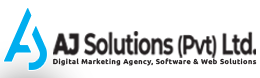
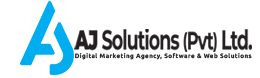
Add files via upload

diff --git a/index.html b/index.html
@@ -71,7 +71,7 @@
             <div class="container-fluid">
                <div class="row">
                   <div class="pogoSlider" id="js-main-slider">
-                     <div class="pogoSlider-slide" style="background-image:url(images/slider_1.jpg);">
+                     <div class="pogoSlider-slide" style="background-image:url(images/slider_dig.jpg);">
                         <div class="container">
                            <div class="row">
                               <div class="col-md-12">
@@ -86,7 +86,7 @@
                            </div>
                         </div>
                      </div>
-                     <div class="pogoSlider-slide" style="background-image:url(images/slider_1.jpg);">
+                     <div class="pogoSlider-slide" style="background-image:url(images/slider_web.jpg);">
                         <div class="container">
                            <div class="row">
                               <div class="col-md-12">
@@ -101,7 +101,7 @@
                            </div>
                         </div>
                      </div>
-                     <div class="pogoSlider-slide" style="background-image:url(images/slider_1.jpg);">
+                     <div class="pogoSlider-slide" style="background-image:url(images/slider_seo.jpg);">
                         <div class="container">
                            <div class="row">
                               <div class="col-md-12">
@@ -363,7 +363,7 @@
                      </div>
                   </div>
                   <div class="col-md-6 padding_0">
-                    <div class="map">
+                    <div class="map" style="@media ">
                       <iframe src="https://www.google.com/maps/embed?pb=!1m18!1m12!1m3!1d3956.8989180135113!2d80.61495131460634!3d7.365226414849175!2m3!1f0!2f0!3f0!3m2!1i1024!2i768!4f13.1!3m3!1m2!1s0x3ae342c6bf24207f%3A0x3106ae13e06881e4!2sAkurana%20Market%20Complex!5e0!3m2!1sen!2slk!4v1600856050584!5m2!1sen!2slk" width="759" height="832" frameborder="0" style="border:0;" allowfullscreen="" aria-hidden="false" tabindex="0"></iframe>
                     </div>
                   </div>

diff --git a/contact.html b/contact.html
@@ -55,7 +55,7 @@
                <div class="row">
                   <div class="col-sm-6">
                      <div class="logo_main">
-                      <h1>AJ Soloutions</h1>
+                    <img src="images/aj.png" alt="AJ Solutions">
                      </div>
                   </div>
                   <div class="col-sm-6">
@@ -161,7 +161,7 @@
             <div class="container">
                <div class="row">
                   <div class="col-12">
-                     <p class="crp">© Copyrights 2019 design by AJ Solution<p>
+                     <p class="crp">© Copyrights 2020 design by AJ Solutions<p>
                   </div>
                </div>
             </div>

diff --git a/about.html b/about.html
@@ -55,7 +55,7 @@
                <div class="row">
                   <div class="col-sm-6">
                      <div class="logo_main">
-                      <h1>AJ Solution</h1>
+                      <h1><img src="images/aj.png" alt="AJ Solutions"></h1>
                      </div>
                   </div>
                   <div class="col-sm-6">

diff --git a/services.html b/services.html
@@ -55,7 +55,7 @@
                <div class="row">
                   <div class="col-sm-6">
                      <div class="logo_main">
-                        <h1>AJ Solutions</h1>
+                        <img src="images/aj.png" alt="AJ Solutions">
                      </div>
                   </div>
                   <div class="col-sm-6">

diff --git a/css/style.css b/css/style.css
@@ -2920,7 +2920,7 @@ form.news_submit_form .field button {
     left: 0;
     width: 100%;
     height: 100%;
-    background: rgba(252,48,30,.95);
+    background: rgba(125,138,246,.95);
     top: -101%;
     display: flex;
     justify-content: center;
